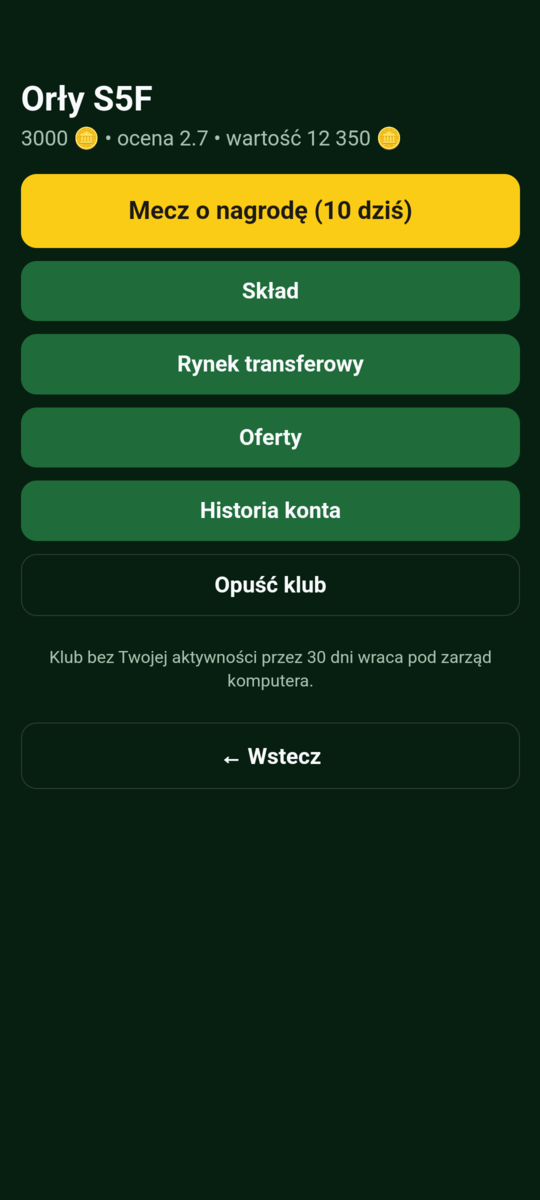
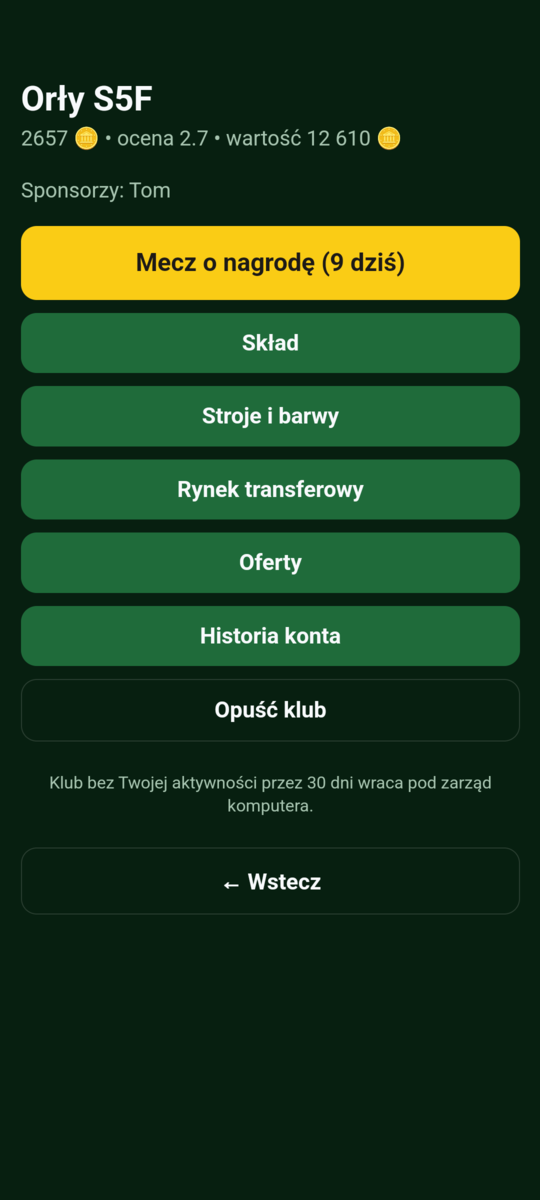
docs: clickable screenshot thumbnails; club screenshot shows coins, rating and sponsors

Changed region(s): [[0.0296, 0.0925, 0.9778, 0.6783], [0.4444, 0.7092, 0.5926, 0.74]]

diff --git a/README.md b/README.md
@@ -4,27 +4,25 @@ Zręcznościowa piłka nożna z widokiem z góry, 11 na 11, na Androida (APK) i 
 
 ## Zrzuty ekranu
 
+Kliknij miniaturę, aby zobaczyć pełny rozmiar.
+
 **Android**
 
-| | | |
-|---|---|---|
-| <img src="docs/screenshots/android-1-menu.png" width="250" alt="Menu główne"> | <img src="docs/screenshots/android-2-match.png" width="250" alt="Mecz"> | <img src="docs/screenshots/android-3-club.png" width="250" alt="Mój klub"> |
-| Menu główne | Mecz: numery, przyciski PODANIE i STRZAŁ | Mój klub online: monety, ocena, sponsorzy |
-| <img src="docs/screenshots/android-4-market.png" width="250" alt="Rynek transferowy"> | <img src="docs/screenshots/android-5-club-match.png" width="250" alt="Mecz klubów online"> | |
-| Rynek transferowy: skład klubu komputera | Mecz online klubów: sponsor przed meczem | |
+| Menu główne | Mecz | Mój klub online | Rynek transferowy | Mecz klubów online |
+|:---:|:---:|:---:|:---:|:---:|
+| <a href="docs/screenshots/android-1-menu.png"><img src="docs/screenshots/thumbs/android-1-menu.png" alt="Menu główne"></a> | <a href="docs/screenshots/android-2-match.png"><img src="docs/screenshots/thumbs/android-2-match.png" alt="Mecz"></a> | <a href="docs/screenshots/android-3-club.png"><img src="docs/screenshots/thumbs/android-3-club.png" alt="Mój klub online"></a> | <a href="docs/screenshots/android-4-market.png"><img src="docs/screenshots/thumbs/android-4-market.png" alt="Rynek transferowy"></a> | <a href="docs/screenshots/android-5-club-match.png"><img src="docs/screenshots/thumbs/android-5-club-match.png" alt="Mecz klubów online"></a> |
+| logo, wersja | numery, PODANIE i STRZAŁ | monety, ocena, sponsorzy | skład klubu komputera z cenami | sponsor przed meczem |
 
-<img src="docs/screenshots/android-6-landscape.png" width="770" alt="Mecz w poziomie">
-
-Widok poziomy.
+| Widok poziomy |
+|:---:|
+| <a href="docs/screenshots/android-6-landscape.png"><img src="docs/screenshots/thumbs/android-6-landscape.png" alt="Mecz w poziomie"></a> |
 
 **Strona www**
 
-| | |
-|---|---|
-| <img src="docs/screenshots/www-1-home.png" width="420" alt="Strona główna"> | <img src="docs/screenshots/www-2-account.png" width="420" alt="Konto"> |
-| Strona główna z pobieraniem APK | Konto: klub, monety, połączenie aplikacji |
-| <img src="docs/screenshots/www-3-game-club.png" width="220" alt="Gra w przeglądarce — Mój klub"> | <img src="docs/screenshots/www-4-game-kits.png" width="220" alt="Stroje i barwy"> |
-| Gra w przeglądarce: Mój klub (sesja ze strony) | Stroje i barwy klubu |
+| Strona główna | Konto | Gra w przeglądarce: Mój klub | Stroje i barwy |
+|:---:|:---:|:---:|:---:|
+| <a href="docs/screenshots/www-1-home.png"><img src="docs/screenshots/thumbs/www-1-home.png" alt="Strona główna"></a> | <a href="docs/screenshots/www-2-account.png"><img src="docs/screenshots/thumbs/www-2-account.png" alt="Konto"></a> | <a href="docs/screenshots/www-3-game-club.png"><img src="docs/screenshots/thumbs/www-3-game-club.png" alt="Mój klub w przeglądarce"></a> | <a href="docs/screenshots/www-4-game-kits.png"><img src="docs/screenshots/thumbs/www-4-game-kits.png" alt="Stroje i barwy"></a> |
+| pobieranie APK | klub, monety, połączenie aplikacji | ta sama sesja co strona | kupno strojów za monety |
 
 ## Co jest w grze
 
